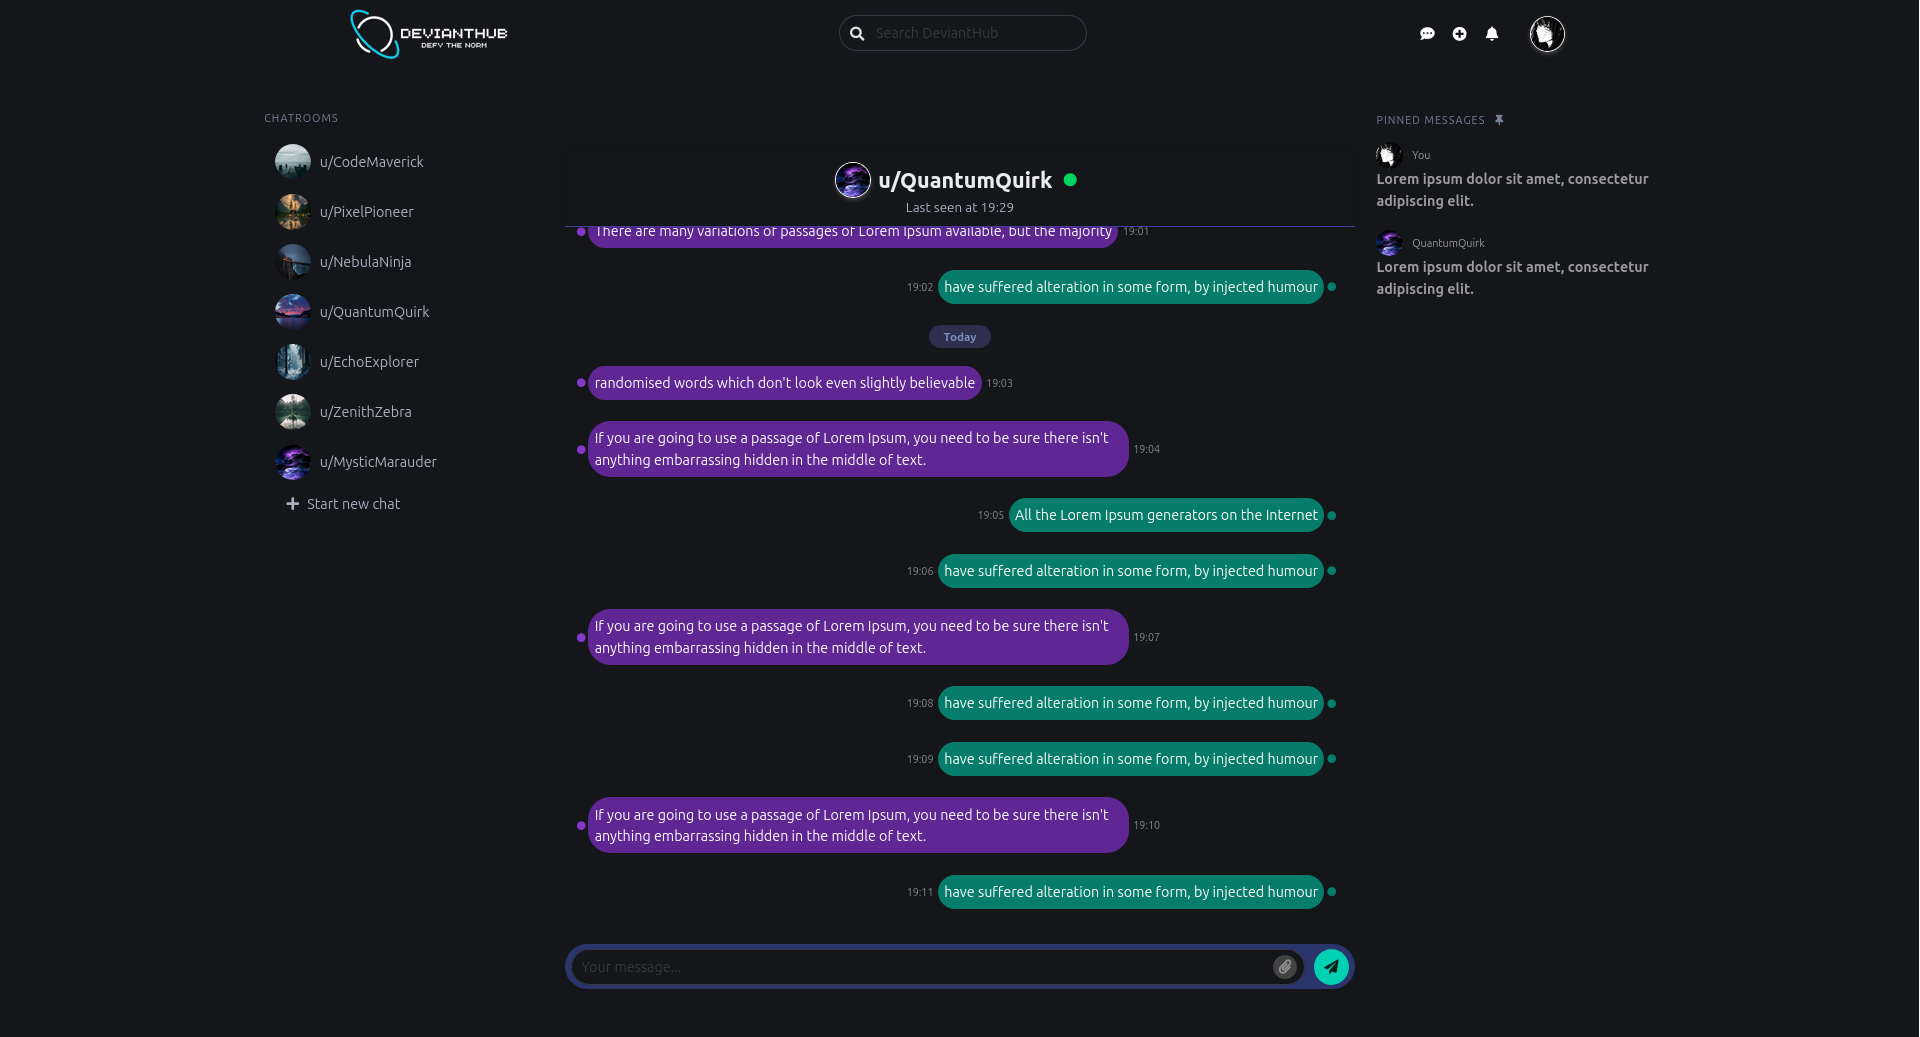
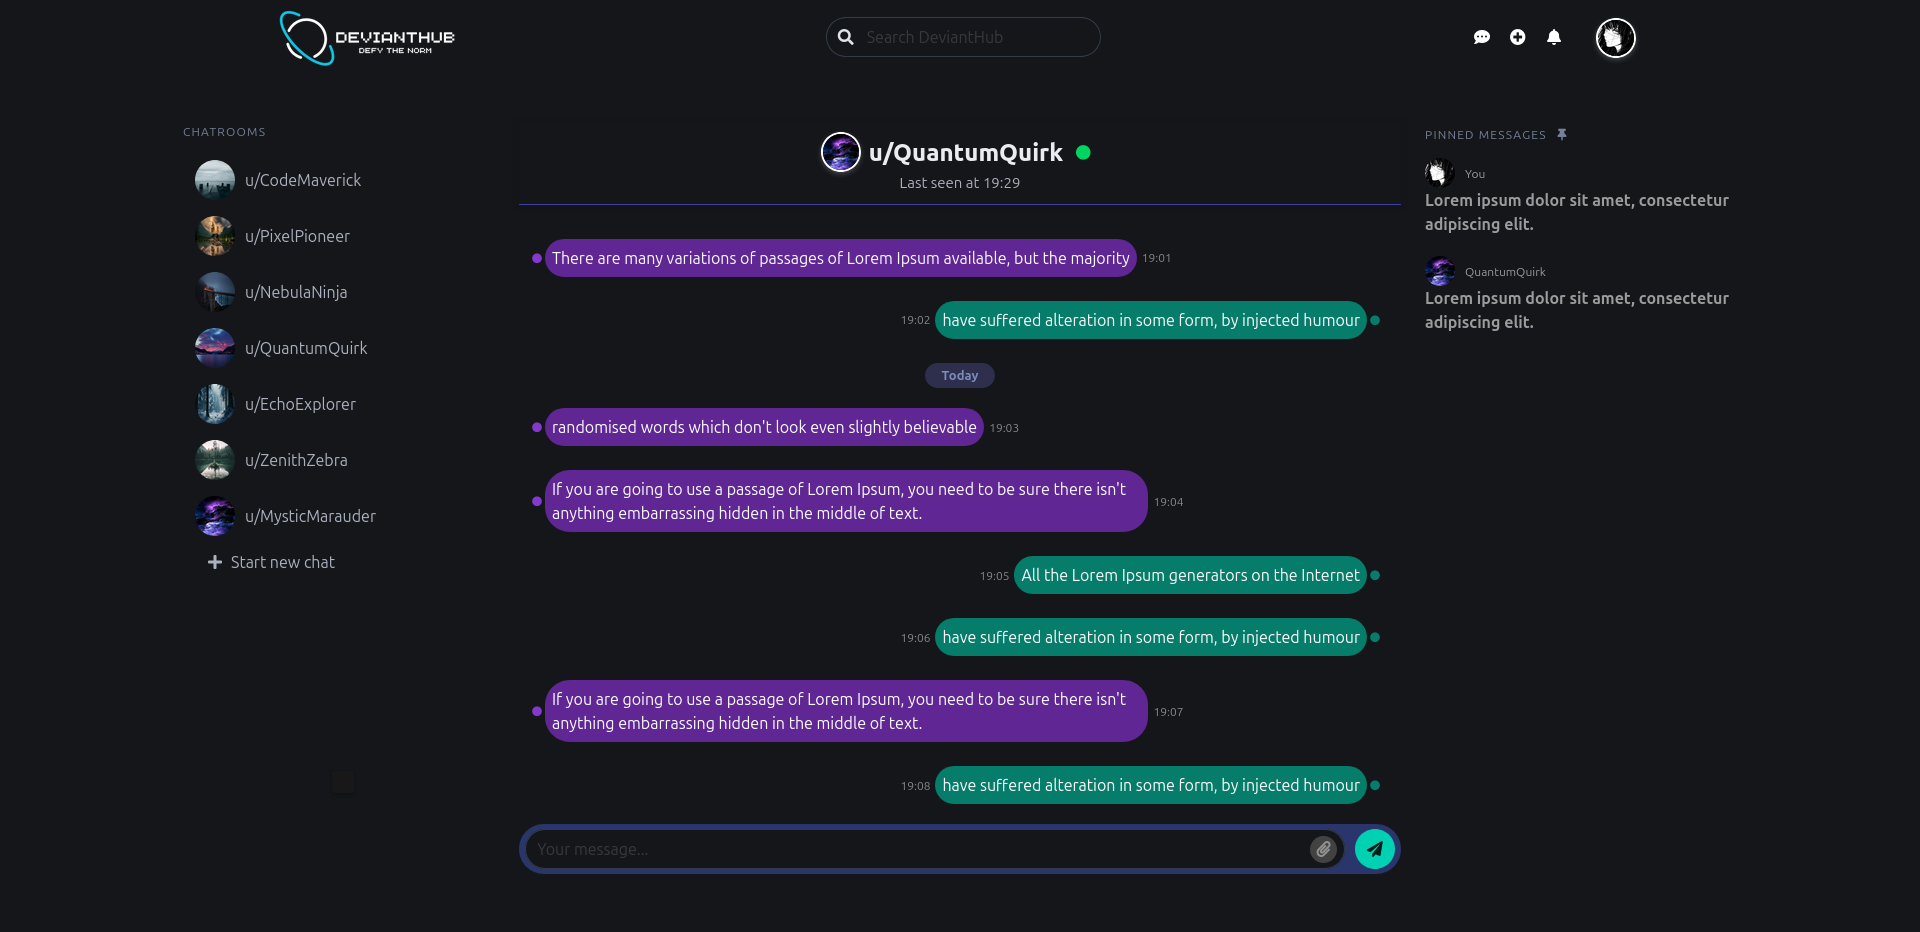
commit 6

diff --git a/css/custom.css b/css/custom.css
@@ -153,6 +153,7 @@
     max-height: 400px;
     margin-bottom: 10px;
     text-align: center;
+    /* box-shadow: 0 2px 10px rgba(235, 232, 232, 0.2); */
 }
 
 .post-header {
@@ -200,7 +201,7 @@
 }
 
 .custom-textarea {
-    height: 50px !important;
+    height: 50px !important; /* Установите нужную высоту */
 }
 
 .username-link {
@@ -311,7 +312,7 @@
 
 .online-label {
     position: relative;
-    padding-left: 15px;
+    padding-left: 15px; /* Adjust the spacing as needed */
 }
 
 .online-label::before {
@@ -322,7 +323,7 @@
     transform: translateY(-50%);
     width: 8px; /* Size of the dot */
     height: 8px; /* Size of the dot */
-    background-color: rgb(1, 185, 1);
+    background-color: rgb(1, 185, 1); /* Color of the dot */
     border-radius: 50%;
 }
 
@@ -395,9 +396,9 @@
     width: 100%;
     height: 100%;
     z-index: 1000;
-    overflow: hidden;
-    align-items: center;
-    justify-content: center;
+    overflow: hidden; /* Отключение скролла */
+    align-items: center; /* Центрирование по вертикали */
+    justify-content: center; /* Центрирование по горизонтали */
 }
 
 .modal.is-active {
@@ -410,15 +411,15 @@
     left: 0;
     width: 100%;
     height: 100%;
-    background-color: rgba(0, 0, 0, 0.7);
+    background-color: rgba(0, 0, 0, 0.7); /* Немного затемнения фона */
 }
 
 .modal-content {
     position: relative;
     z-index: 1;
-    width: 90vw;
-    height: 90vh;
-    display: flex;
+    width: 90vw; /* Увеличение ширины */
+    height: 90vh; /* Увеличение высоты */
+    display: flex; /* Центрирование содержимого */
     align-items: center;
     justify-content: center;
     overflow: hidden;
@@ -427,8 +428,8 @@
 .modal-content img {
     width: 100%;
     height: 100%;
-    object-fit: contain;
-    cursor: pointer;
+    object-fit: contain; /* Сохранение пропорций изображения */
+    cursor: pointer; /* Показ курсора, чтобы указать, что изображение кликабельно */
 }
 
 .modal-close {
@@ -437,19 +438,13 @@
     right: 10px;
     background: none;
     border: none;
-    font-size: 2rem;
+    font-size: 2rem; /* Увеличение размера кнопки закрытия */
     color: white;
     cursor: pointer;
     z-index: 2;
 }
 
-.chat-container {
-    display: flex;
-    flex-direction: column;
-    height: 90%;
-    overflow-y: auto;
-    padding: 10px;
-}
+
 .message {
     margin-bottom: 30px;
     display: flex;
@@ -473,6 +468,15 @@
     background-color: #5f2694;
     color: white;
     border-radius: 25px;
+}
+
+.chat-container {
+    display: flex;
+    flex-direction: column;
+    height: 90vh;
+    max-height: 600px;
+    overflow-y: auto;
+    padding: 10px;
 }
 
 .chat-input {

diff --git a/chat.html b/chat.html
@@ -234,6 +234,22 @@
                                         <i class="fas fa-circle chat-circle sent" aria-hidden="true"></i>
                                     </span>
                                 </div>
+                                <div class="message sent is-align-items-center">
+                                    <span class="time">19:11</span>
+                                    <div class="message-content">have suffered alteration in some form, by injected humour</div>
+                                    <span class="icon is-small mr-2 is-flex is-align-items-center">
+                                        <i class="fas fa-circle chat-circle sent" aria-hidden="true"></i>
+                                    </span>
+                                </div>
+                                <div class="message sent is-align-items-center">
+                                    <span class="time">19:11</span>
+                                    <div class="message-content">have suffered alteration in some form, by injected humour</div>
+                                    <span class="icon is-small mr-2 is-flex is-align-items-center">
+                                        <i class="fas fa-circle chat-circle sent" aria-hidden="true"></i>
+                                    </span>
+                                </div>
+                                
+                                
                             </div>
                             
                             <div class="chat-input">
